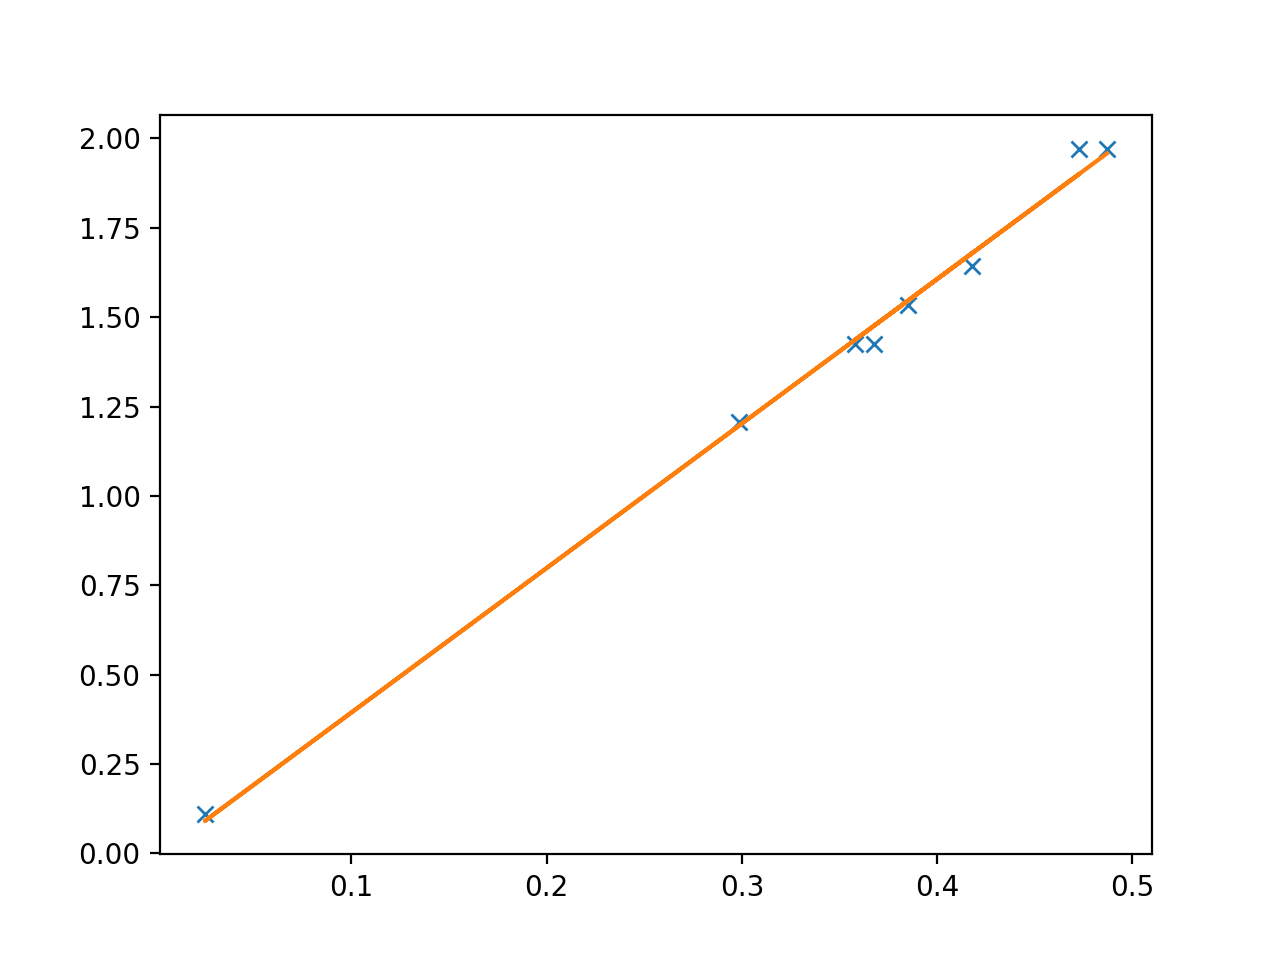
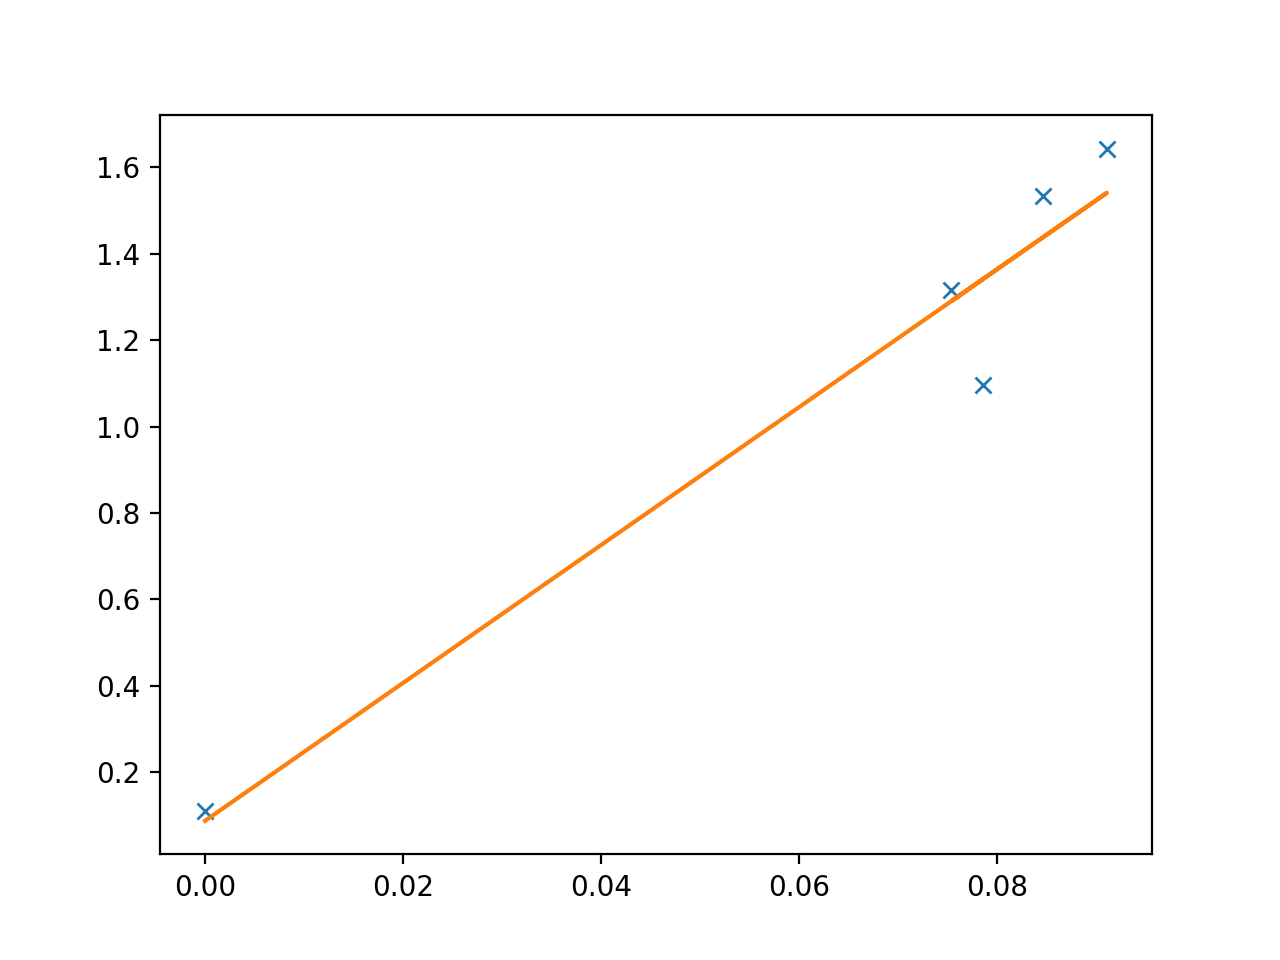
Took data with new springs and with the big steel plate installed

diff --git a/SEA-Prototype-3-Runner/single_weight_test.py b/SEA-Prototype-3-Runner/single_weight_test.py
@@ -1,5 +1,3 @@
-import matplotlib.pyplot as plt
-
 from data_processing.experiment_helpers.single_weight_helpers import *
 from data_processing.experiment_helpers.k_calculator_helpers import compute_linear_regression
 from data_processing.experiment_helpers.plot_helpers import *
@@ -12,22 +10,38 @@ def run_single_weight_tests():
 
     weight_load_point_offset_cm = 0.0
     # weight_load_point_offset_cm = -3.2
-    K = 2.9887
+
+    # 0.25x1.25x0.49
+    # K = 2.9887
+
+    # 0.75x1.75x0.725
+    K = 15.0774
 
     for net_moment, actual_displacement, error in [
+        single_weight_test(0.0, 0.0, K, False),
+
+        # 0.25x1.25x0.49
+
         # initial_tests:
-        single_weight_test(18.0 - weight_load_point_offset_cm, 0.41783182292744253, K),
-        single_weight_test(19.0 - weight_load_point_offset_cm, 0.38515925933010864, K),
-        single_weight_test(22.0 - weight_load_point_offset_cm, 0.2984513020910304, K),
-        single_weight_test(0.0, 0.025132741228718346, K, False),
+        # single_weight_test(18.0 - weight_load_point_offset_cm, 0.41783182292744253, K),
+        # single_weight_test(19.0 - weight_load_point_offset_cm, 0.38515925933010864, K),
+        # single_weight_test(22.0 - weight_load_point_offset_cm, 0.2984513020910304, K),
+        # single_weight_test(0.0, 0.025132741228718346, K, False),
+        #
+        # # tipped forward:
+        # single_weight_test(20.0, 0.3675156696207544, K),
+        # single_weight_test(15.0, 0.4727224279026642, K),
+        #
+        # # tipped backward:
+        # single_weight_test(20.0, 0.35814156250923646, K),
+        # single_weight_test(15.0, 0.48694686130641796, K),
 
-        # tipped forward:
-        single_weight_test(20.0, 0.3675156696207544, K),
-        single_weight_test(15.0, 0.4727224279026642, K),
+        # 0.75x1.75x0.725
 
-        # tipped backward:
-        single_weight_test(20.0, 0.35814156250923646, K),
-        single_weight_test(15.0, 0.48694686130641796, K),
+        single_weight_test(18.0, 0.09110618695410401, K),
+        single_weight_test(19.0, 0.08469389509951662, K),
+        single_weight_test(21.0, 0.07539822368615504, K),
+        single_weight_test(23.0, 0.07853981633974483, K),
     ]:
         moments.append(net_moment)
         actual_displacements.append(actual_displacement)
@@ -60,4 +74,8 @@ def run_single_weight_tests():
     plt.show()
 
 
+experiments = {
+    # 0.25x1.25x0.49
+    ""
+}
 run_single_weight_tests()

diff --git a/SEA-Prototype-3-Runner/hardware/experiment_node.py b/SEA-Prototype-3-Runner/hardware/experiment_node.py
@@ -8,7 +8,7 @@ from data_processing.torque_table import TorqueTable
 
 
 class ExperimentNode(Node):
-    def __init__(self, step_duration, num_steps, min_current_mA, torque_table_path, enabled=True):
+    def __init__(self, step_duration, num_steps, min_current_mA, torque_table_path, max_current_mA=None, enabled=True):
         self.set_logger(write=True)
         super(ExperimentNode, self).__init__(enabled)
         self.brake_controller_bridge_tag = "brake_controller_bridge"
@@ -35,6 +35,12 @@ class ExperimentNode(Node):
         self.torque_table = TorqueTable(torque_table_path)
         self.min_torque_forcing = self.torque_table.to_torque(True, min_current_mA)
         self.min_torque_unforcing = self.torque_table.to_torque(False, min_current_mA)
+        if max_current_mA is None:
+            self.max_torque_forcing = self.torque_table.max_torque
+            self.max_torque_unforcing = self.torque_table.max_torque
+        else:
+            self.max_torque_forcing = self.torque_table.to_torque(True, max_current_mA)
+            self.max_torque_unforcing = self.torque_table.to_torque(False, max_current_mA)
 
         self.experiment_step_duration = step_duration
         self.experiment_num_steps = num_steps
@@ -149,13 +155,13 @@ class ExperimentNode(Node):
 
     def get_forcing_current_mA(self, step_num):
         percent_torque = (step_num + 1) / self.experiment_num_steps
-        torque = percent_torque * (self.torque_table.max_torque - self.min_torque_forcing) + self.min_torque_forcing
+        torque = percent_torque * (self.max_torque_forcing - self.min_torque_forcing) + self.min_torque_forcing
         current_mA = self.torque_table.to_current_mA(True, torque)
         return current_mA
 
     def get_unforcing_current_mA(self, step_num):
         percent_torque = (step_num + 1) / self.experiment_num_steps
-        torque = percent_torque * (self.torque_table.max_torque - self.min_torque_unforcing) + self.min_torque_unforcing
+        torque = percent_torque * (self.max_torque_unforcing - self.min_torque_unforcing) + self.min_torque_unforcing
         current_mA = self.torque_table.to_current_mA(False, torque)
         return current_mA
 

diff --git a/SEA-Prototype-3-Runner/analyzer.py b/SEA-Prototype-3-Runner/analyzer.py
@@ -158,16 +158,40 @@ class PlaybackOrchestrator(Orchestrator):
         super(PlaybackOrchestrator, self).__init__(event_loop, return_when=asyncio.ALL_COMPLETED)
 
         # filename = "20_56_08.log"
-        filename = "22_35_04.log"
-        directory = "2018_Oct_30"
-        conical_annulus_size = "0.25x1.25x0.49"
-        torque_table_path = "brake_torque_data/B15 Torque Table.csv"
-        enable_smoothing = False
+        # filename = "22_35_04.log"
+        # directory = "2018_Oct_30"
+        # conical_annulus_size = "0.5x1.0x0.365"
+        # torque_table_path = "brake_torque_data/B15 Torque Table.csv"
+        # enable_smoothing = False
 
         # filename = "23_45_11.log"
         # directory = "2018_Nov_06"
-        # conical_annulus_size = "0.25x1.25x0.49"
+        # conical_annulus_size = "0.5x1.0x0.365"
         # torque_table_path = "brake_torque_data/B5Z Torque Table.csv"
+        # enable_smoothing = True
+
+        # filename = "23_25_50.log"
+        # directory = "2018_Nov_08"
+        # conical_annulus_size = "0.25x1.25x0.49"
+        # torque_table_path = "brake_torque_data/B15 Torque Table.csv"
+        # enable_smoothing = True
+
+        # filename = "22_57_03.log"
+        # directory = "2018_Nov_16"
+        # conical_annulus_size = "0.75x1.75x0.725"
+        # torque_table_path = "brake_torque_data/B15 Torque Table.csv"
+        # enable_smoothing = True
+
+        filename = "20_57_43.log"
+        directory = "2019_Jan_07"
+        conical_annulus_size = "0.75x1.75x0.725"
+        torque_table_path = "brake_torque_data/B15 Torque Table.csv"
+        enable_smoothing = True
+
+        # filename = "22_33_12.log"
+        # directory = "2019_Jan_07"
+        # conical_annulus_size = "1.5x1.75x0.725"
+        # torque_table_path = "brake_torque_data/B15 Torque Table.csv"
         # enable_smoothing = True
 
         self.brake = BrakePlayback(filename, directory)
